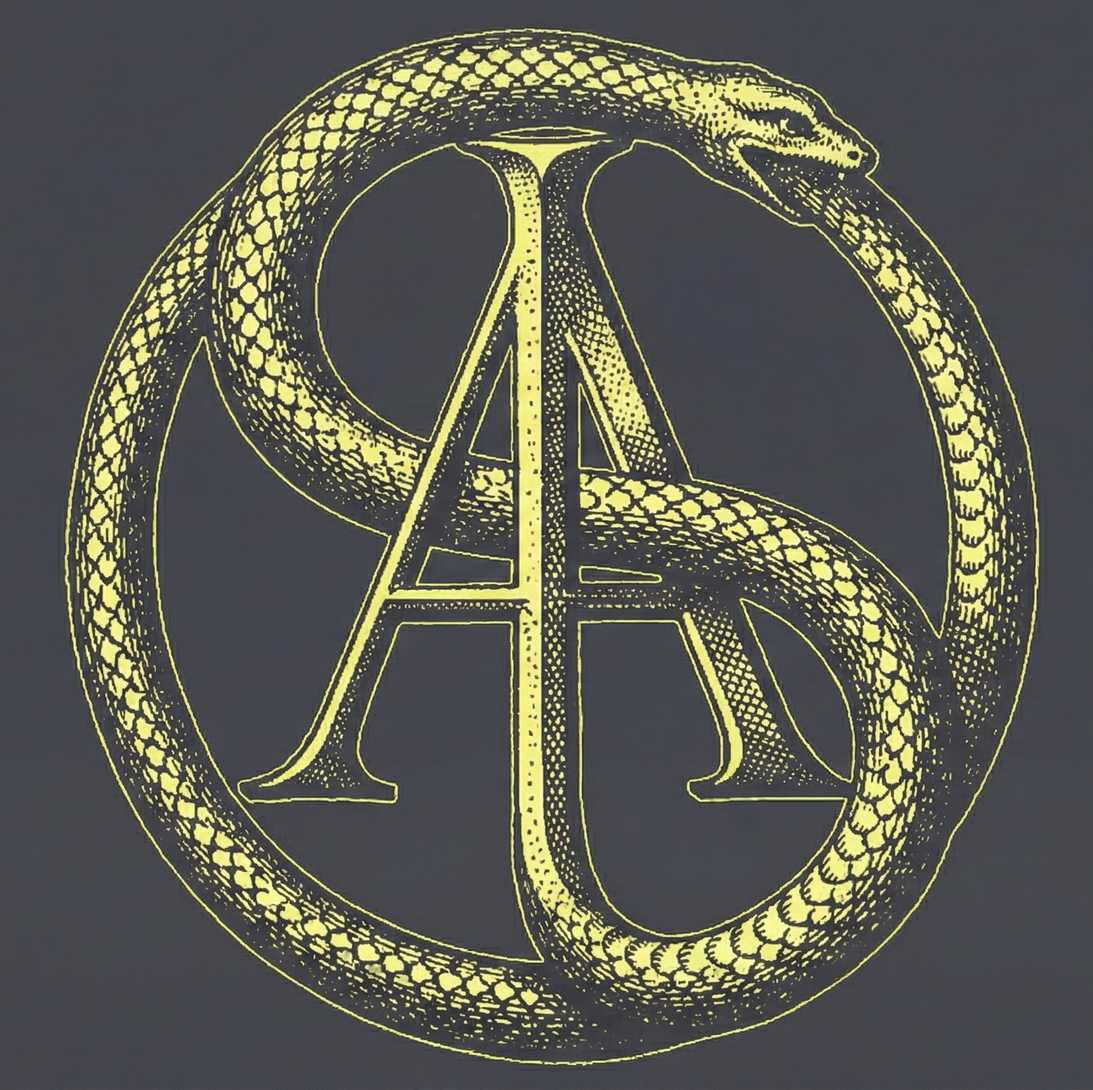
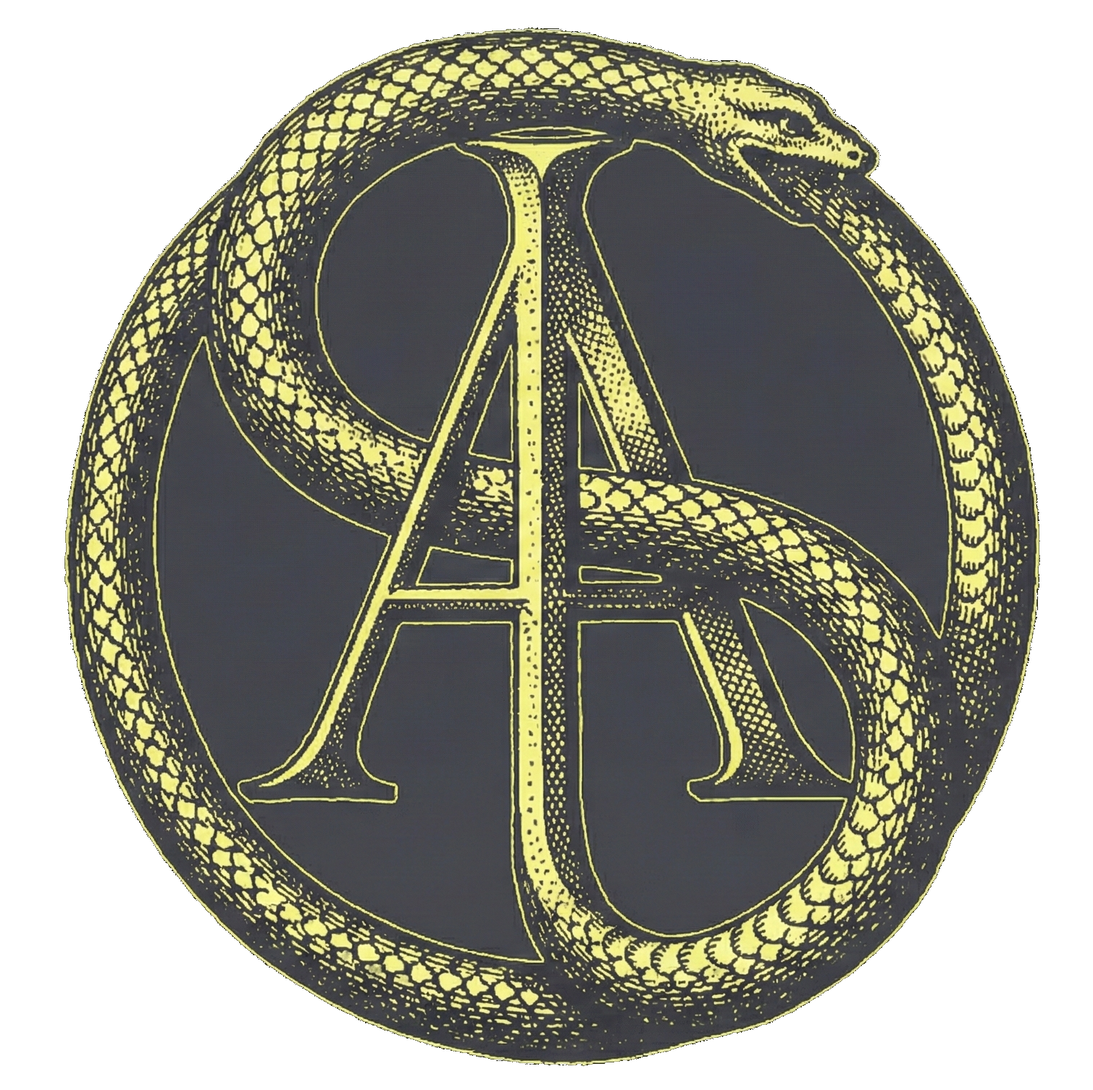
updated

diff --git a/layouts/index.html b/layouts/index.html
@@ -11,7 +11,6 @@
     <h2>{{ .Site.Params.Description }}</h2>
     {{ end }}
 <br>
-    <p class="home-signup-link"><a href="{{ "/signup/" | relURL }}">Signup</a> to stay in the loop.</p>
 
 </section>
 

diff --git a/assets/dark.css b/assets/dark.css
@@ -1,5 +1,5 @@
 :root {
-  --dark-primary-color: 67, 67, 75;
+  --dark-primary-color: 43, 43, 48;
   --dark-secondary-color: #1f2021;
   --dark-tertiary-color: #646464;
   --dark-text-color: white;
